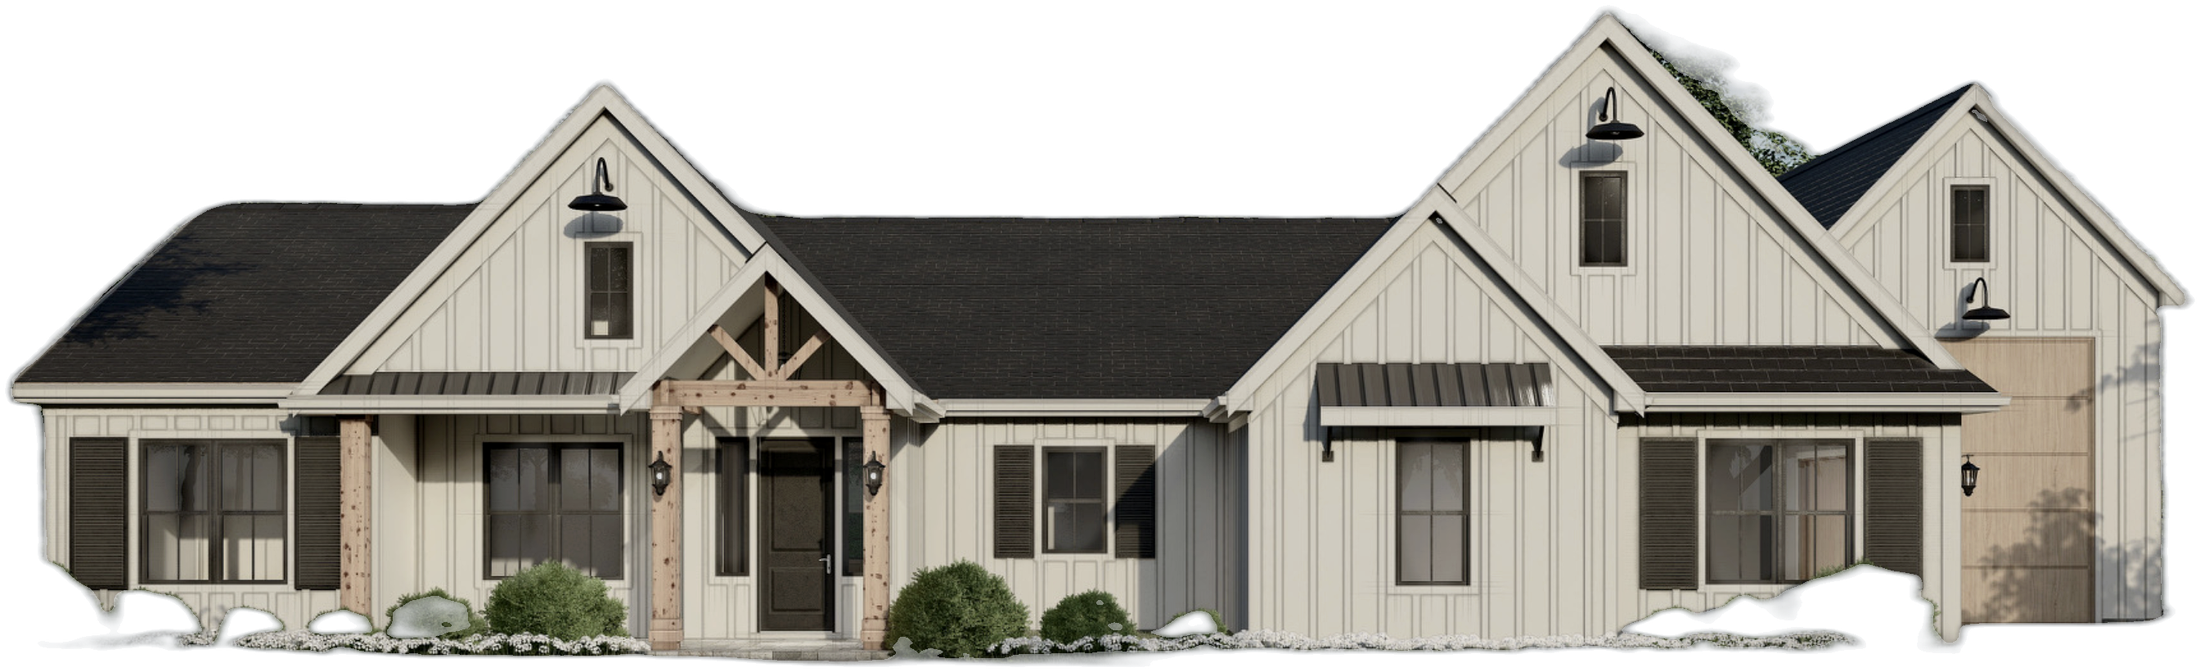
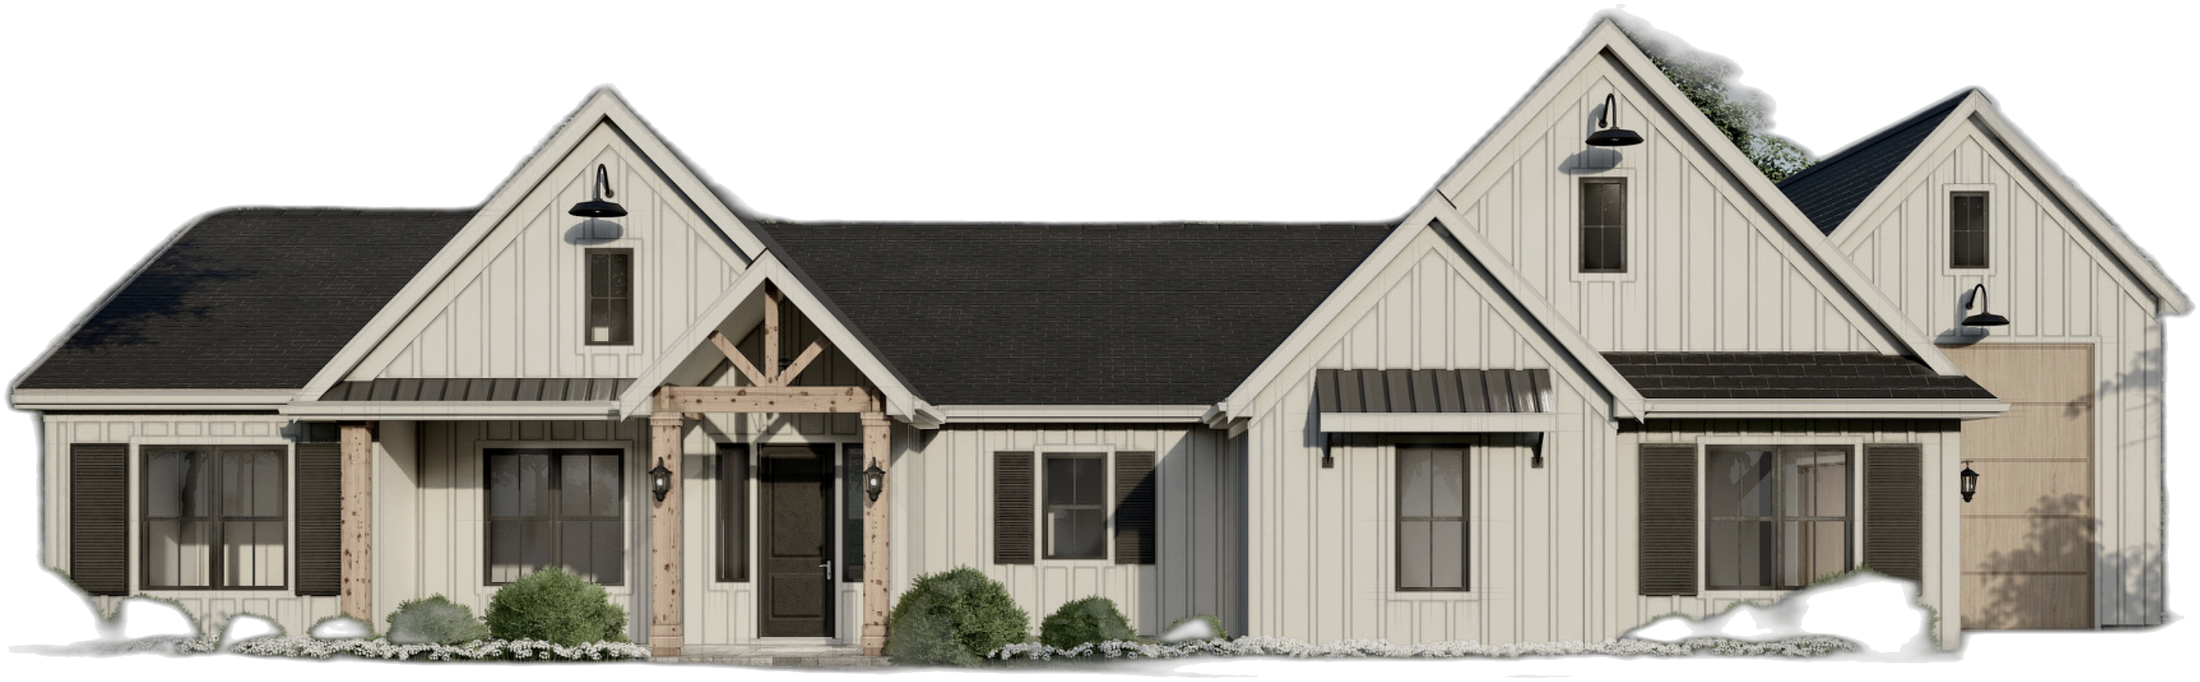
Fix driveway garage side (cutout mirror) and solid house mattes
Negate garage X because the street-facing cutout flip mirrors the facade.
Re-cut elevations without alpha-matting so windows no longer punch through.

diff --git a/src/studio/StudioCanvas.tsx b/src/studio/StudioCanvas.tsx
@@ -176,35 +176,34 @@ export default function StudioCanvas({
         pad.scale.set(w, depthFt * FT_TO_M, 1)
       }
 
-      // Driveway tip = garage door on the facade. Local −z faces the street;
-      // a small +z tuck puts the ribbon under the door so there’s no gap.
+      // Driveway tip = garage door on the facade.
+      // Cutout mesh is rotated Y=π so the texture faces −z (street); that also
+      // mirrors +x, so image-right (garage) is at local −x in anchor space.
       const approach = approachRef.current
       const plan = planIdRef.current ? getPlan(planIdRef.current) : null
       const garageFrac = plan?.garageXFrac ?? 0.35
-      const apronDepth = Math.max(5.5, w * 0.14) // ~18–22 ft apron
+      const garageX = -garageFrac * w
+      const apronDepth = Math.max(7, w * 0.16) // ~23–28 ft apron to the door
       if (approach) {
         if (plan?.garageEntry === 'side') {
-          // Side-entry: approach the side of the garage wing
-          approach.position.set(garageFrac * w - Math.sign(garageFrac || -1) * 1.2, 0, h * 0.02)
+          // Side-entry: pull up beside the garage wing
+          approach.position.set(garageX - Math.sign(garageX || 1) * 0.5, 0, 0.2)
         } else {
-          approach.position.set(garageFrac * w, 0, 0.35)
+          // Front garage: tip tucked just under/into the facade so ribbon meets the door
+          approach.position.set(garageX, 0, 0.6)
         }
       }
       const apron = apronRef.current
       if (apron) {
-        const apronW = Math.max(6.5, w * 0.24)
+        const apronW = Math.max(7.5, w * 0.26)
         apron.visible = true
         if (plan?.garageEntry === 'side') {
           apron.scale.set(apronDepth, 1, apronW)
-          apron.position.set(
-            garageFrac * w - Math.sign(garageFrac || -1) * (apronDepth / 2),
-            0.04,
-            0
-          )
+          apron.position.set(garageX - Math.sign(garageX || 1) * (apronDepth / 2), 0.045, 0.15)
         } else {
           apron.scale.set(apronW, 1, apronDepth)
-          // From just under the facade out toward the street (−z)
-          apron.position.set(garageFrac * w, 0.04, -apronDepth / 2 + 0.4)
+          // Apron from street toward facade, overlapping the door so no grass gap
+          apron.position.set(garageX, 0.045, -apronDepth / 2 + 1.0)
         }
       }
     } else if (apronRef.current) {
@@ -239,7 +238,8 @@ export default function StudioCanvas({
       mat.map = tex
       mat.color.set(0xffffff)
       mat.transparent = true
-      mat.alphaTest = 0.2
+      // Low alphaTest — high values chewed holes in bright windows/siding
+      mat.alphaTest = 0.05
       mat.depthWrite = false
       mat.side = THREE.DoubleSide
       mat.needsUpdate = true

diff --git a/src/data/plans.ts b/src/data/plans.ts
@@ -44,8 +44,8 @@ export const homePlans: HomePlan[] = [
     name: 'The Brownstone',
     subtitle: 'Front-facing garage + RV bay',
     builder: 'Blackstone Homes',
-    elevationImg: '/plans/brownstone-elevation.jpg?v=drive2',
-    cutoutImg: '/plans/cutouts/brownstone.png?v=drive2',
+    elevationImg: '/plans/brownstone-elevation.jpg?v=drive3',
+    cutoutImg: '/plans/cutouts/brownstone.png?v=drive3',
     floorplanImg: '/plans/thumbs/brownstone-floorplan.jpg',
     pdfUrl: '/plans/brownstone-15-2-rwr.pdf',
     livingArea: '~2,880 sq ft living',
@@ -71,8 +71,8 @@ export const homePlans: HomePlan[] = [
     name: 'The Whitestone',
     subtitle: 'Front-facing garage',
     builder: 'Blackstone Homes',
-    elevationImg: '/plans/whitestone-elevation.jpg?v=drive2',
-    cutoutImg: '/plans/cutouts/whitestone.png?v=drive2',
+    elevationImg: '/plans/whitestone-elevation.jpg?v=drive3',
+    cutoutImg: '/plans/cutouts/whitestone.png?v=drive3',
     floorplanImg: '/plans/thumbs/whitestone-front-floorplan.jpg',
     pdfUrl: '/plans/whitestone-7-2-rwr.pdf',
     livingArea: '~2,140 sq ft living',
@@ -98,8 +98,8 @@ export const homePlans: HomePlan[] = [
     builder: 'Blackstone Homes',
     // Side-entry plan uses the same Whitestone marketing render until a
     // dedicated side-entry exterior photo is supplied.
-    elevationImg: '/plans/whitestone-elevation.jpg?v=drive2',
-    cutoutImg: '/plans/cutouts/whitestone.png?v=drive2',
+    elevationImg: '/plans/whitestone-elevation.jpg?v=drive3',
+    cutoutImg: '/plans/cutouts/whitestone.png?v=drive3',
     floorplanImg: '/plans/thumbs/whitestone-side-floorplan.jpg',
     pdfUrl: '/plans/whitestone-29-3-pse.pdf',
     livingArea: '~2,140 sq ft living',
